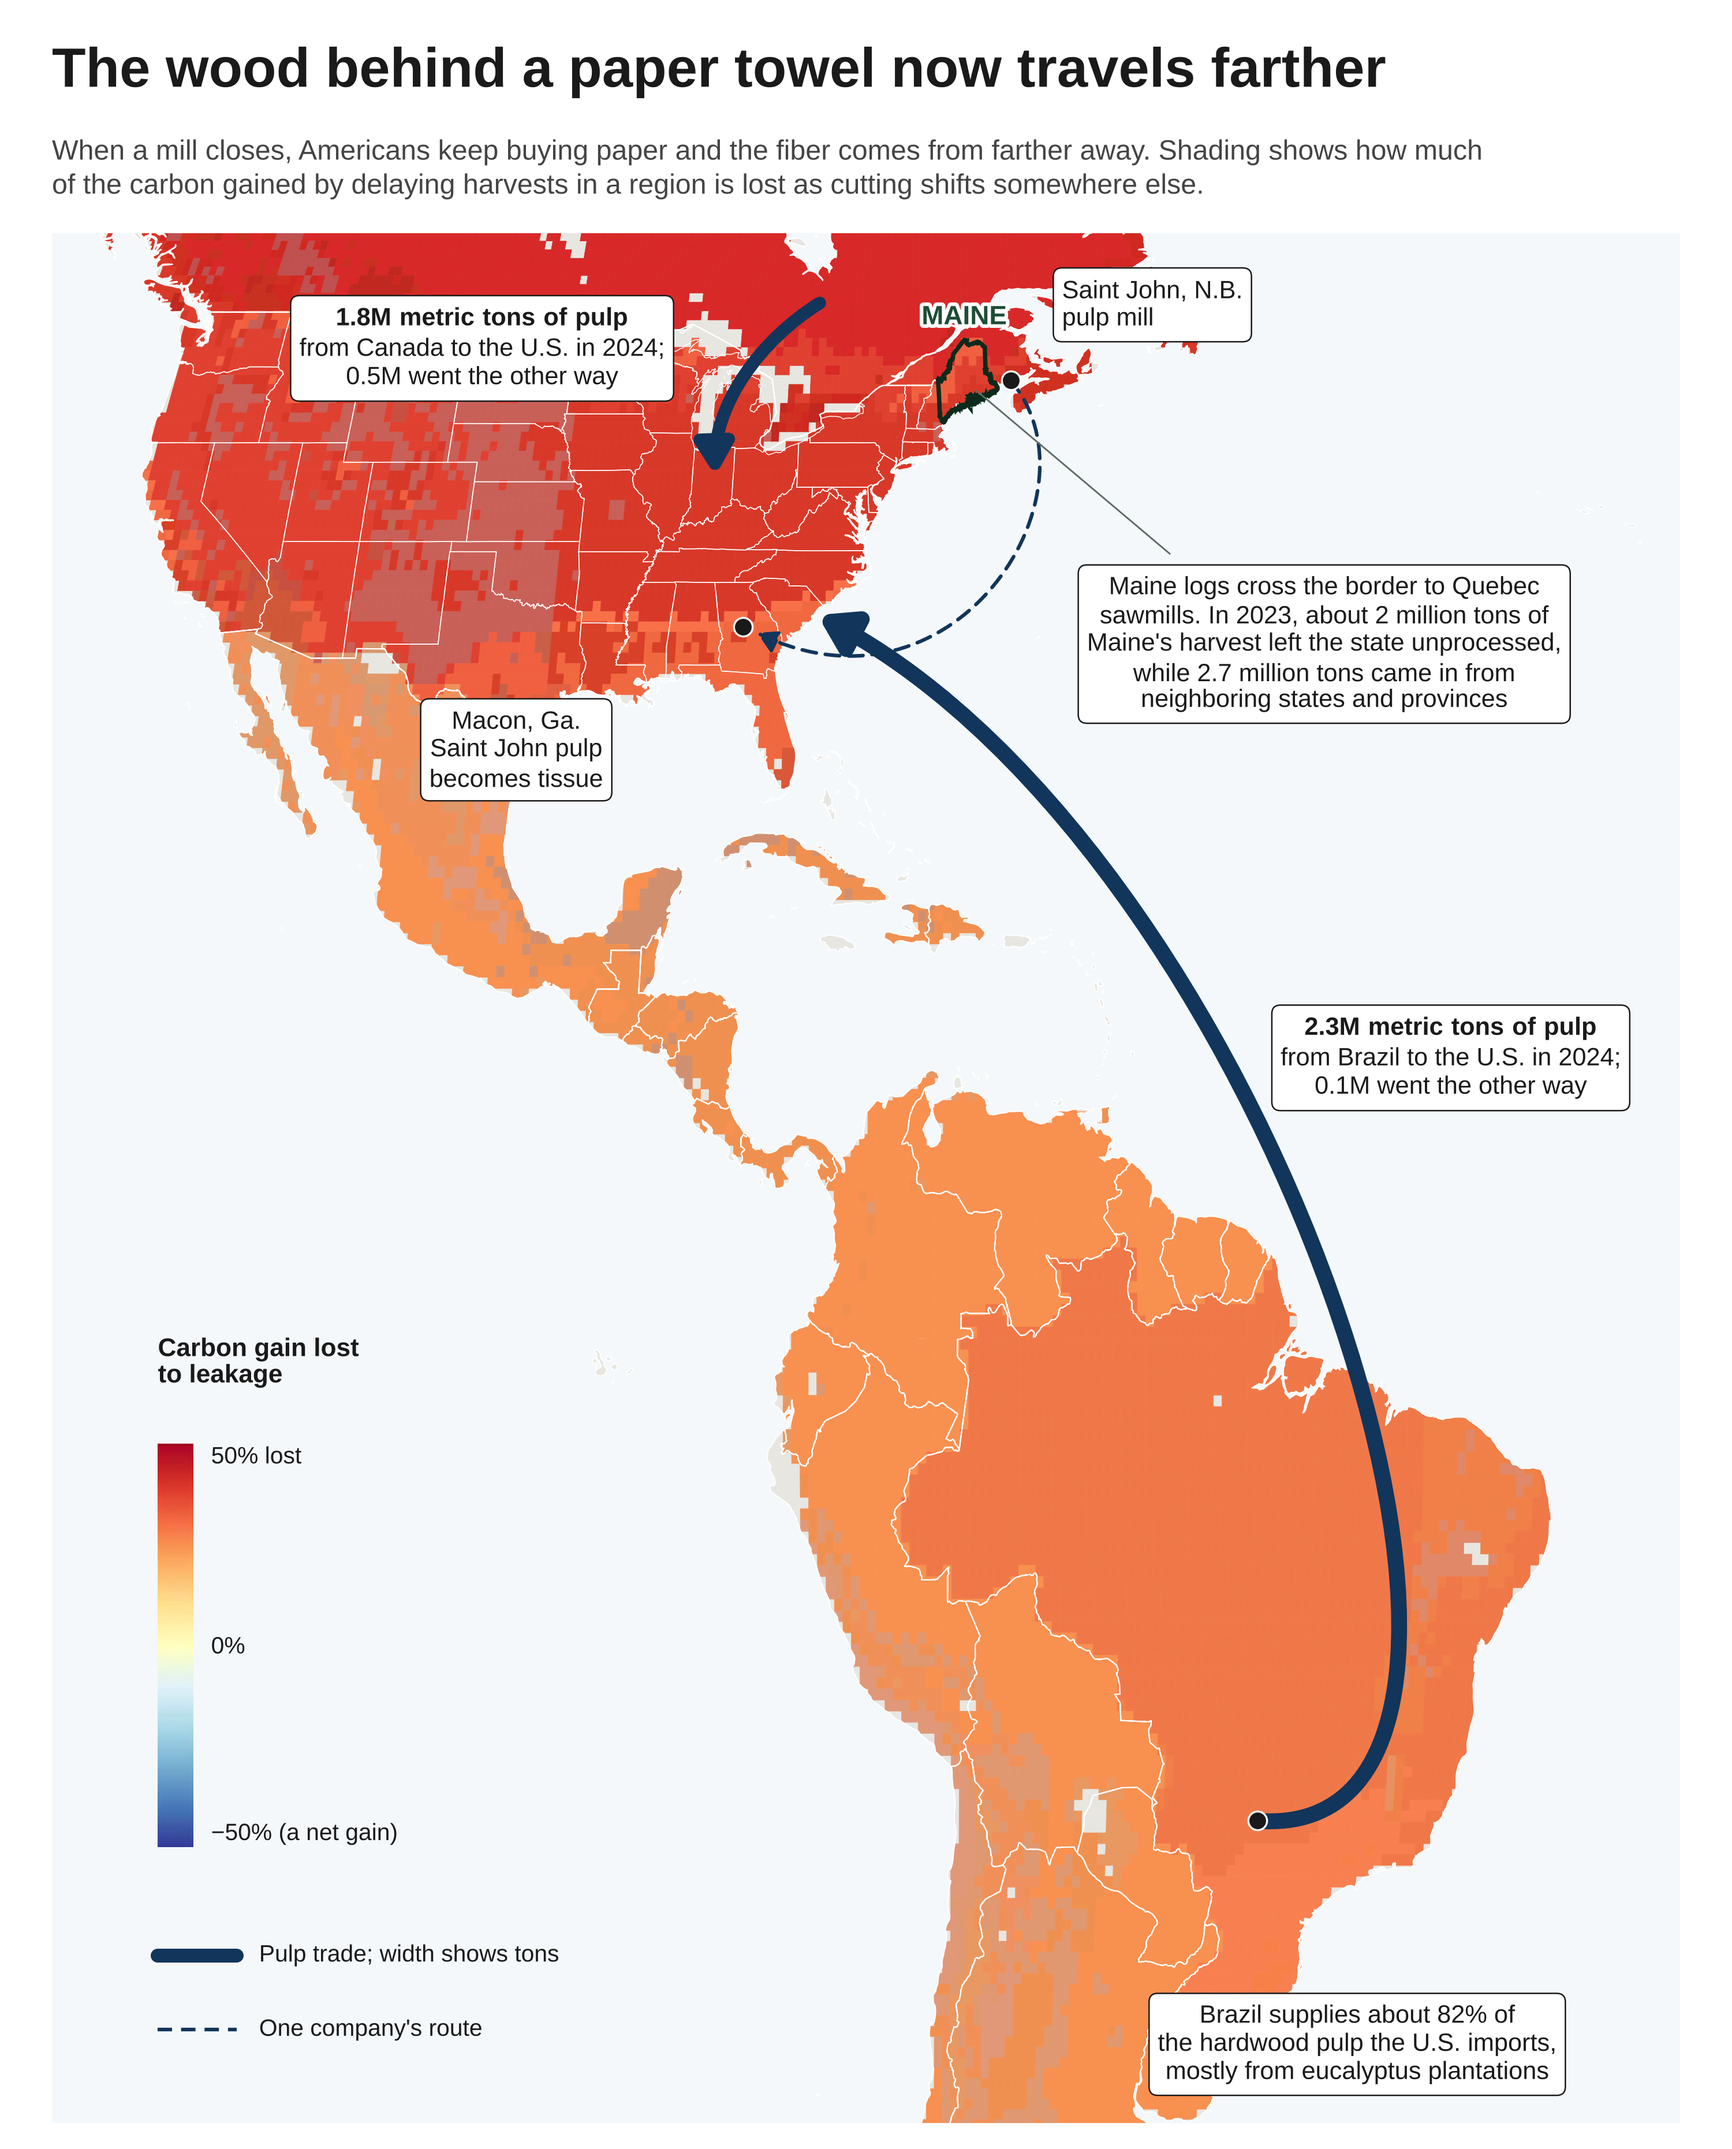
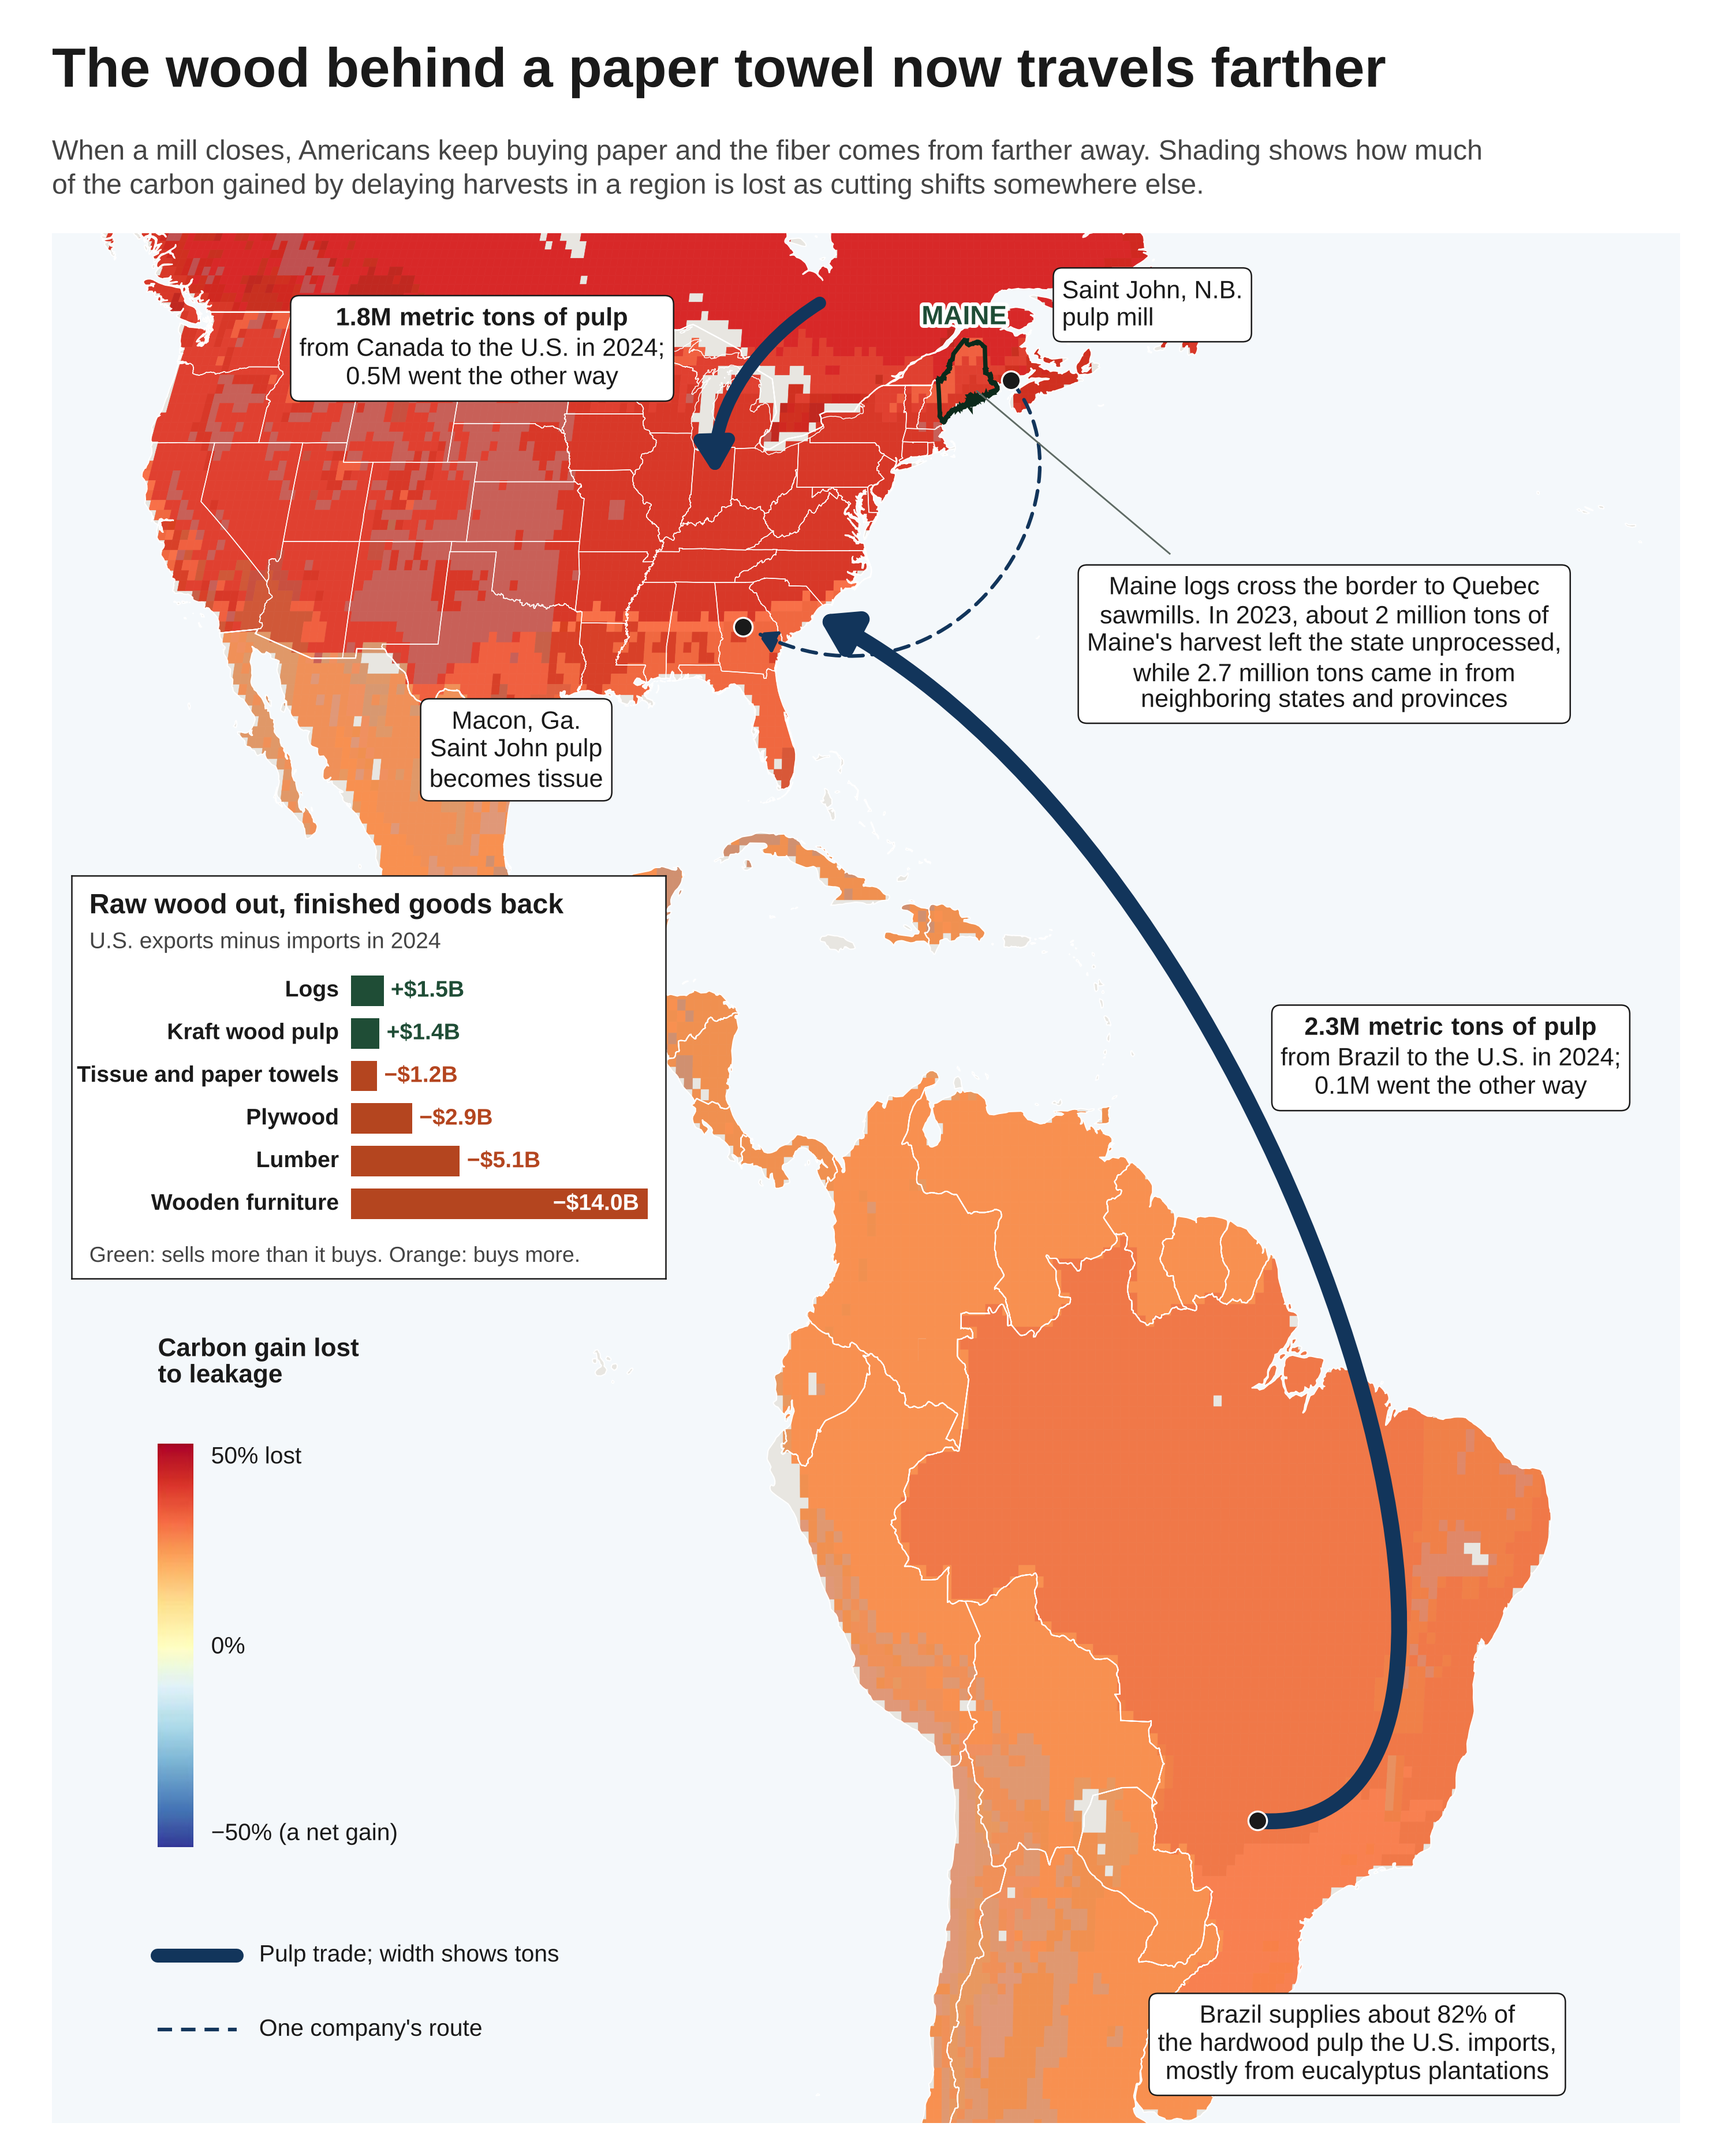
Add raw versus finished wood trade inset to the leakage map (UN Comtrade 2024)
Claude-Session: https://claude.ai/code/session_013WsDVoeaXCGmdbNt2QvfhH

Changed region(s): [[0.031, 0.405, 0.403, 0.592]]

diff --git a/wood-travels/2026-11-12_follow-the-wood-leakage-map_DRAFT.py b/wood-travels/2026-11-12_follow-the-wood-leakage-map_DRAFT.py
@@ -7,6 +7,8 @@
 # Pulp arrows: UN Comtrade, U.S.-reported trade, 2024. Imports are bleached kraft pulp (HS 470321 softwood and
 # 470329 hardwood): Brazil 0.266 + 2.024 = 2.29 million metric tons, Canada 1.729 + 0.110 = 1.84 million.
 # Exports are all kraft pulp (HS 4703): 0.08 million to Brazil, 0.50 million to Canada.
+# Inset: U.S. exports minus imports by product, 2024, UN Comtrade world totals (logs HS 4403, kraft pulp 4703,
+# tissue and towels 4818, plywood 4412, lumber 4407, wooden furniture 940330 to 940360). Added November 12, 2026.
 # Routes are schematic. Usage: python3 <script> <node_modules dir> <grid.csv> <out.png>
 import csv, json, sys, os, math, collections
 import numpy as np
@@ -161,6 +163,30 @@ ax.text(bx0 + 0.09, ky, "Pulp trade; width shows tons", ha="left", va="center", 
 ky2 = P(-119.0, -30.5)[1]
 ax.plot([bx0, bx0 + 0.07], [ky2, ky2], color=NAV, linewidth=1.5, linestyle=(0, (4, 2.5)), zorder=8)
 ax.text(bx0 + 0.09, ky2, "One company's route", ha="left", va="center", fontsize=9.8, color=INK, zorder=8)
+
+# ---- inset: U.S. trade balance by product, 2024 (UN Comtrade; see 2024_us-raw-and-finished-wood-trade-comtrade_DATA.csv) ----
+tr = [(r["product"], (float(r["exports_usd"]) - float(r["imports_usd"])) / 1e9)
+      for r in csv.DictReader(open(os.path.join(HERE, "2024_us-raw-and-finished-wood-trade-comtrade_DATA.csv")))]
+ORG = "#B4451F"
+ia = ax.inset_axes([0.012, 0.447, 0.365, 0.213], zorder=9)
+ia.set_facecolor("white"); ia.set_xticks([]); ia.set_yticks([])
+for sp in ia.spines.values():
+    sp.set_edgecolor(INK); sp.set_linewidth(0.6)
+ia.set_xlim(0, 1); ia.set_ylim(0, 1)
+ia.text(0.03, 0.925, "Raw wood out, finished goods back", fontsize=11.6, fontweight="bold", color=INK, va="center")
+ia.text(0.03, 0.835, "U.S. exports minus imports in 2024", fontsize=9.4, color="#444444", va="center")
+X0, XW, vmax = 0.47, 0.50, max(abs(v) for _, v in tr)
+for i, (name, v) in enumerate(tr):
+    y = 0.715 - i * 0.106
+    w = XW * abs(v) / vmax
+    ia.add_patch(plt.Rectangle((X0, y - 0.038), w, 0.076, facecolor=GRN if v > 0 else ORG, edgecolor="none"))
+    ia.text(X0 - 0.02, y, name, ha="right", va="center", fontsize=9.4, fontweight="bold", color=INK)
+    t = ("+$" if v > 0 else "\u2212$") + f"{abs(v):.1f}B"
+    if w > 0.3:
+        ia.text(X0 + w - 0.015, y, t, ha="right", va="center", fontsize=9.4, fontweight="bold", color="white")
+    else:
+        ia.text(X0 + w + 0.012, y, t, ha="left", va="center", fontsize=9.4, fontweight="bold", color=GRN if v > 0 else ORG)
+ia.text(0.03, 0.055, "Green: sells more than it buys. Orange: buys more.", fontsize=9, color="#444444", va="center")
 
 fig.text(0.03, 1 - 0.42 / H, "The wood behind a paper towel now travels farther", fontsize=23, fontweight="bold", color=INK, va="center")
 fig.text(0.03, 1 - 0.98 / H, "When a mill closes, Americans keep buying paper and the fiber comes from farther away. Shading shows how much\nof the carbon gained by delaying harvests in a region is lost as cutting shifts somewhere else.",

diff --git a/wood-travels/README.md b/wood-travels/README.md
@@ -62,3 +62,12 @@ Note (November 12, 2026):
 - `2026-11-12_how-maines-trees-are-used_DRAFT.py` and `.png` rebuild the harvest chart from `2009-2023_maine-wood-flow-by-product-mfs_DATA.csv` (Maine Forest Service Wood Processor Reports, source URL per row). The right panel now shows tons harvested by product, 2009 to 2023, in place of shares, so the fall from 13.5 to 10.0 million green tons is visible (Adam Daigneault's request). The left panel and headline are unchanged in content. This supersedes the patched `2023_how-maines-trees-are-used-nofooter_DATA.png`.
 - Second pass on November 12, 2026: all figures now share a bold sans headline in near black and a gray deck on white, to sit with The Conversation's own charts. The leakage map is redrawn in the Equal Earth projection (Aaron found the earlier one distorted) and carries pulp trade arrows scaled by tonnage: Brazil to the U.S. 2.29 million metric tons and Canada to the U.S. 1.84 million of bleached kraft pulp in 2024 (HS 470321 and 470329), against U.S. kraft pulp exports (HS 4703) of 0.08 million to Brazil and 0.50 million to Canada (UN Comtrade, U.S.-reported).
 - `2026-11-12_us-lumber-and-pulp-net-trade_DRAFT.py` and `.png`: new chart of U.S. exports minus imports for lumber (HS 4407), all kraft pulp (HS 4703), and hardwood kraft pulp (HS 470329) in 2004, 2010, 2014, 2019, and 2024, from `2004-2024_us-lumber-and-pulp-trade-comtrade_DATA.csv` (UN Comtrade public preview, one call per year; 2009 could not be read, so 2010 is used). Nominal dollars. The U.S. is a net buyer of lumber (\$5.1B in 2024) and hardwood pulp (\$1.1B) and a net seller of kraft pulp overall (\$1.4B).
+
+## November 12, 2026: trade inset on the leakage map
+
+The leakage map now carries an inset, "Raw wood out, finished goods back", with U.S. exports minus imports in 2024 for
+logs (HS 4403, +$1.5B), kraft wood pulp (4703, +$1.4B), tissue and paper towels (4818, −$1.2B), plywood (4412, −$2.9B),
+lumber (4407, −$5.1B), and wooden furniture (940330 to 940360, −$14.0B). Values are UN Comtrade world totals reported
+by the United States, in nominal dollars, stored in `2024_us-raw-and-finished-wood-trade-comtrade_DATA.csv`. The
+standalone net trade chart (`2026-11-12_us-lumber-and-pulp-net-trade_DRAFT`) stays in the repository but is not placed
+in the article draft.
